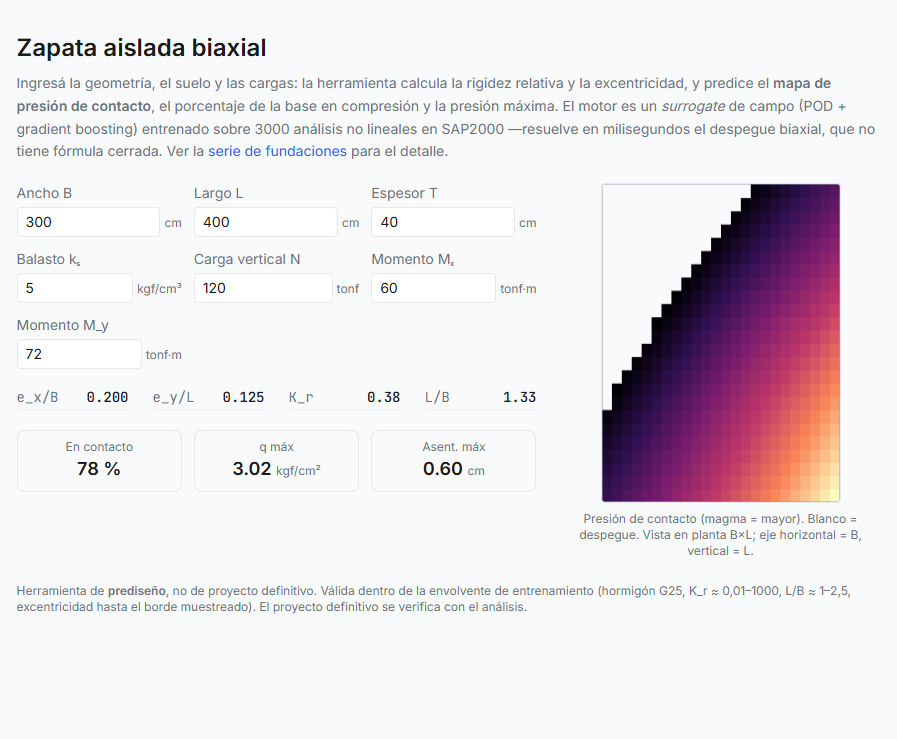
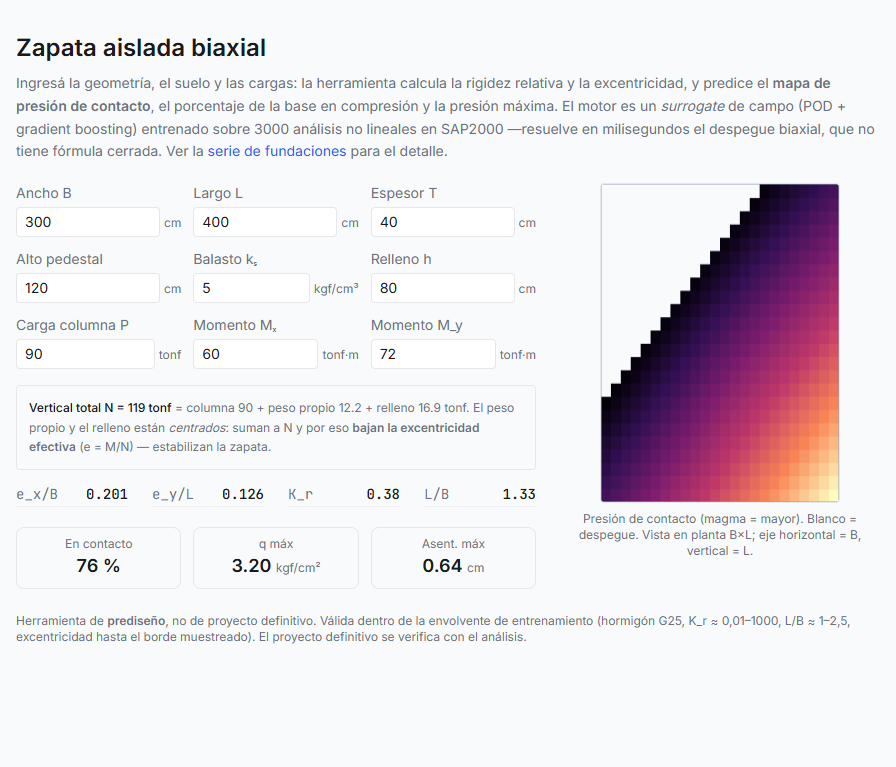
Herramienta: input de columna + relleno → excentricidad efectiva
El peso propio y el relleno están CENTRADOS: suman a la vertical total y bajan la
excentricidad efectiva (e = M/N) — estabilizan la zapata. Antes el tool pedía "N
total" (ambiguo). Ahora pide carga de columna P + altura de relleno + alto de
pedestal, calcula el peso propio y el relleno, arma N_tot y muestra el desglose.
Así el efecto estabilizador del relleno queda explícito e interactivo (subir el
relleno sube el contacto). Se ajustan los números del caso validado del post
finale al valor del surrogate de campo (76% vs SAP 78%) y se actualiza la captura.

diff --git a/src/components/zapata/ZapataBiaxialTool.tsx b/src/components/zapata/ZapataBiaxialTool.tsx
@@ -8,18 +8,26 @@ const KR_MAX = 997;
 const ECC_MAX = 0.45; // e_x/B, e_y/L máximos del muestreo
 const ECC_CAP = 0.6; // e_x/B + e_y/L (rincón profundo no muestreado)
 
+// Pesos unitarios del modelo SAP y sección del pedestal (fijos)
+const GAMMA_C = 0.0024; // hormigón [kgf/cm³]
+const GAMMA_S = 0.0018; // suelo de relleno [kgf/cm³]
+const PED_A = 50 * 50;  // sección del pedestal [cm²]
+
 interface Inputs {
-  B: number; L: number; T: number; ks: number; // geometría + suelo
-  N: number; Mx: number; My: number;           // carga vertical + momentos
+  B: number; L: number; T: number; Hped: number; // geometría
+  ks: number; hrel: number;                       // suelo + relleno
+  P: number; Mx: number; My: number;              // carga de columna + momentos
 }
-const DEFAULTS: Inputs = { B: 300, L: 400, T: 40, ks: 5, N: 120, Mx: 60, My: 72 };
+const DEFAULTS: Inputs = { B: 300, L: 400, T: 40, Hped: 120, ks: 5, hrel: 80, P: 90, Mx: 60, My: 72 };
 
 const FIELDS: { key: keyof Inputs; label: string; unit: string; step: number }[] = [
   { key: 'B', label: 'Ancho B', unit: 'cm', step: 10 },
   { key: 'L', label: 'Largo L', unit: 'cm', step: 10 },
   { key: 'T', label: 'Espesor T', unit: 'cm', step: 5 },
+  { key: 'Hped', label: 'Alto pedestal', unit: 'cm', step: 10 },
   { key: 'ks', label: 'Balasto kₛ', unit: 'kgf/cm³', step: 0.5 },
-  { key: 'N', label: 'Carga vertical N', unit: 'tonf', step: 10 },
+  { key: 'hrel', label: 'Relleno h', unit: 'cm', step: 10 },
+  { key: 'P', label: 'Carga columna P', unit: 'tonf', step: 10 },
   { key: 'Mx', label: 'Momento Mₓ', unit: 'tonf·m', step: 5 },
   { key: 'My', label: 'Momento M_y', unit: 'tonf·m', step: 5 },
 ];
@@ -57,18 +65,25 @@ export default function ZapataBiaxialTool() {
       .catch((e) => setError(String(e)));
   }, []);
 
-  // ── Variables derivadas (features del surrogate + escalas físicas) ─────────
+  // ── Variables derivadas (peso propio + relleno → N_tot → features) ─────────
   const d = useMemo(() => {
-    const { B, L, T, ks, N, Mx, My } = inp;
-    // e = 100·M[tonf·m] / N[tonf]  →  [cm];  e_x por My (sobre B), e_y por Mx (sobre L)
-    const ex = N > 0 ? (100 * My) / N : 0;
-    const ey = N > 0 ? (100 * Mx) / N : 0;
+    const { B, L, T, Hped, ks, hrel, P, Mx, My } = inp;
+    // Composición de la carga vertical total en la base [kgf]
+    const wZap = B * L * T * GAMMA_C;                       // peso zapata
+    const wPed = PED_A * Hped * GAMMA_C;                    // peso pedestal
+    const wFill = Math.max(B * L - PED_A, 0) * hrel * GAMMA_S; // relleno sobre el vuelo
+    const Pcol = P * 1000;                                  // columna [tonf → kgf]
+    const Ntot = Pcol + wZap + wPed + wFill;                // vertical total [kgf]
+    // Excentricidad EFECTIVA: el momento lo pone la columna, dividido por N_tot.
+    // M[tonf·m] → kgf·cm es ×1e5;  e_x por My (sobre B), e_y por Mx (sobre L).
+    const ex = Ntot > 0 ? (My * 1e5) / Ntot : 0;
+    const ey = Ntot > 0 ? (Mx * 1e5) / Ntot : 0;
     const exB = B > 0 ? ex / B : 0;
     const eyL = L > 0 ? ey / L : 0;
     const Kr = ks > 0 && B > 0 ? (E_G25 * T ** 3) / (ks * B ** 4) : 0;
     const LB = B > 0 ? L / B : 0;
-    const NA = B > 0 && L > 0 ? (N * 1000) / (B * L) : 0; // N/A [kgf/cm²]
-    return { exB, eyL, Kr, LB, NA };
+    const NA = B > 0 && L > 0 ? Ntot / (B * L) : 0;         // N/A [kgf/cm²]
+    return { exB, eyL, Kr, LB, NA, Ntot, Pcol, wZap, wPed, wFill };
   }, [inp]);
 
   const pred = useMemo(() => {
@@ -148,8 +163,19 @@ export default function ZapataBiaxialTool() {
           ))}
         </div>
 
+        {/* ── Composición de la carga vertical total ── */}
+        <div className="mt-4 rounded border border-border bg-surface/50 p-3 text-xs leading-relaxed text-muted">
+          <span className="font-medium text-ink">
+            Vertical total N = {(d.Ntot / 1000).toFixed(0)} tonf
+          </span>{' '}
+          = columna {(d.Pcol / 1000).toFixed(0)} + peso propio {((d.wZap + d.wPed) / 1000).toFixed(1)}{' '}
+          + relleno {(d.wFill / 1000).toFixed(1)} tonf. El peso propio y el relleno están{' '}
+          <em>centrados</em>: suman a N y por eso <strong>bajan la excentricidad efectiva</strong>{' '}
+          (e = M/N) — estabilizan la zapata.
+        </div>
+
         {/* ── Variables adimensionales calculadas ── */}
-        <div className="mt-4 grid grid-cols-2 gap-x-6 gap-y-1 text-sm sm:grid-cols-4">
+        <div className="mt-3 grid grid-cols-2 gap-x-6 gap-y-1 text-sm sm:grid-cols-4">
           <Derived label="e_x/B" value={d.exB.toFixed(3)} />
           <Derived label="e_y/L" value={d.eyL.toFixed(3)} />
           <Derived label="K_r" value={d.Kr.toFixed(2)} />